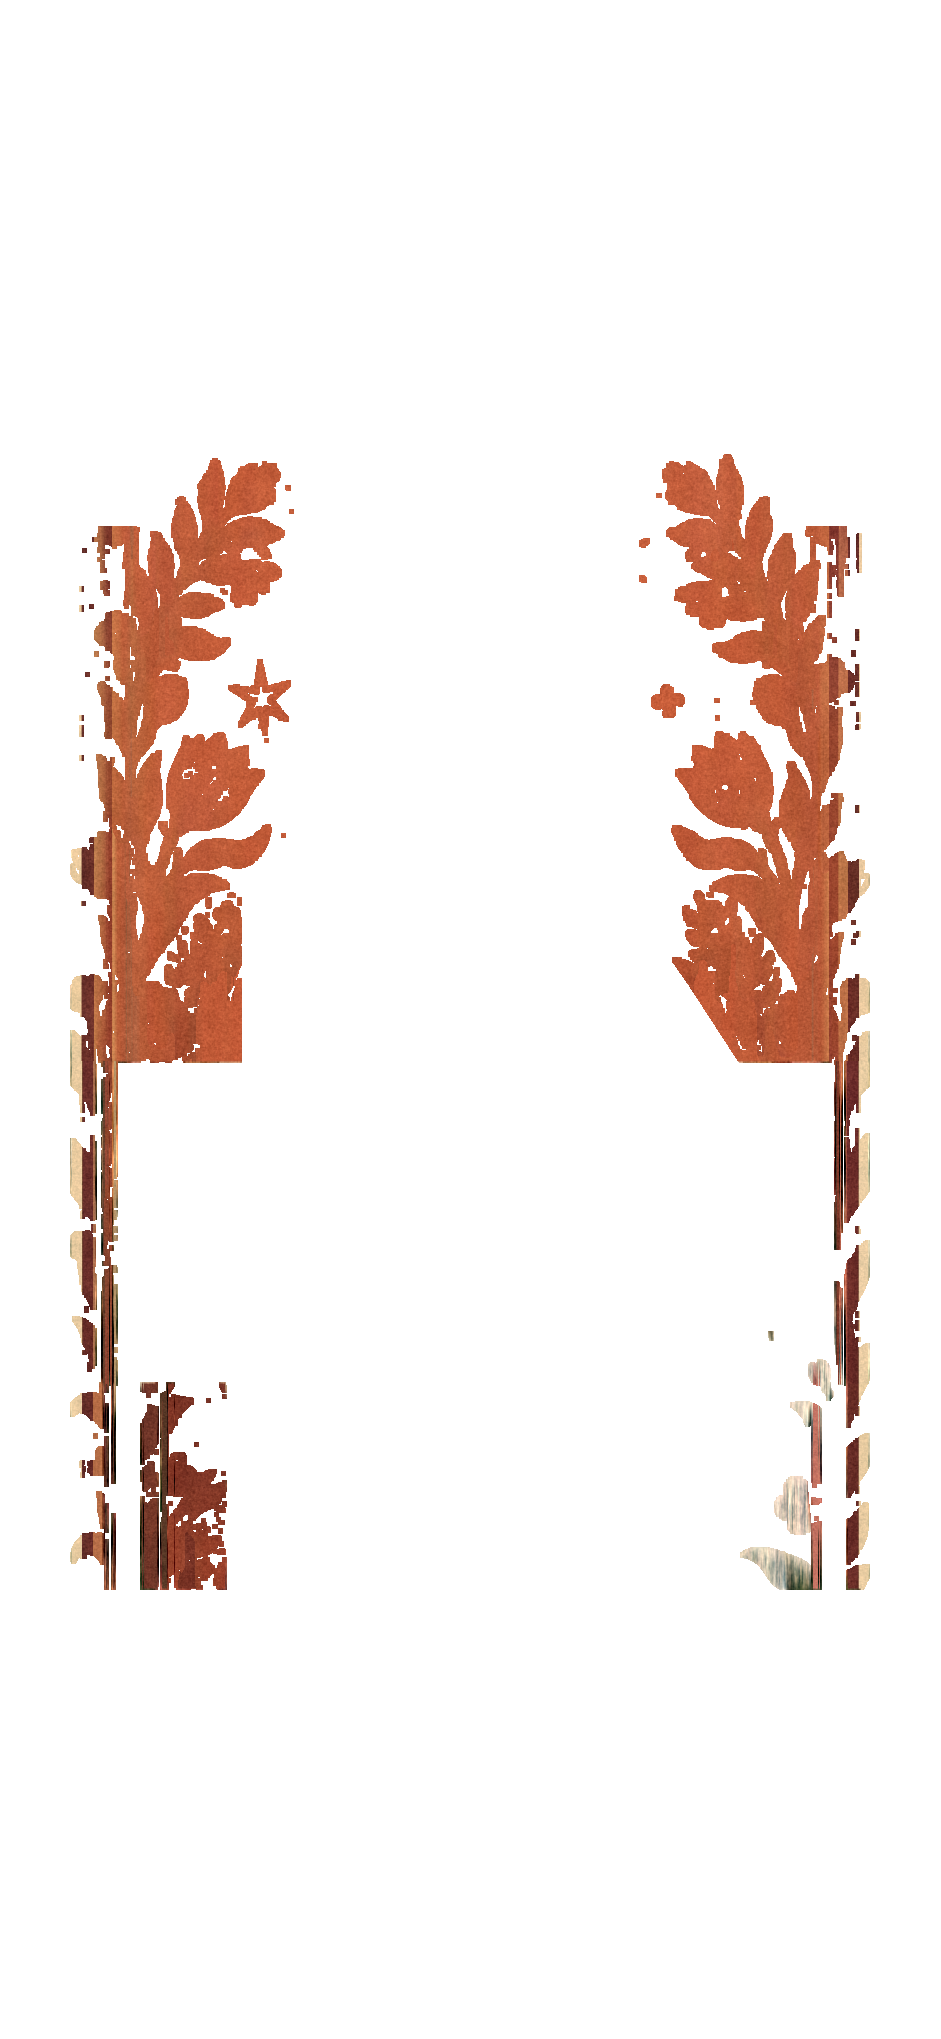
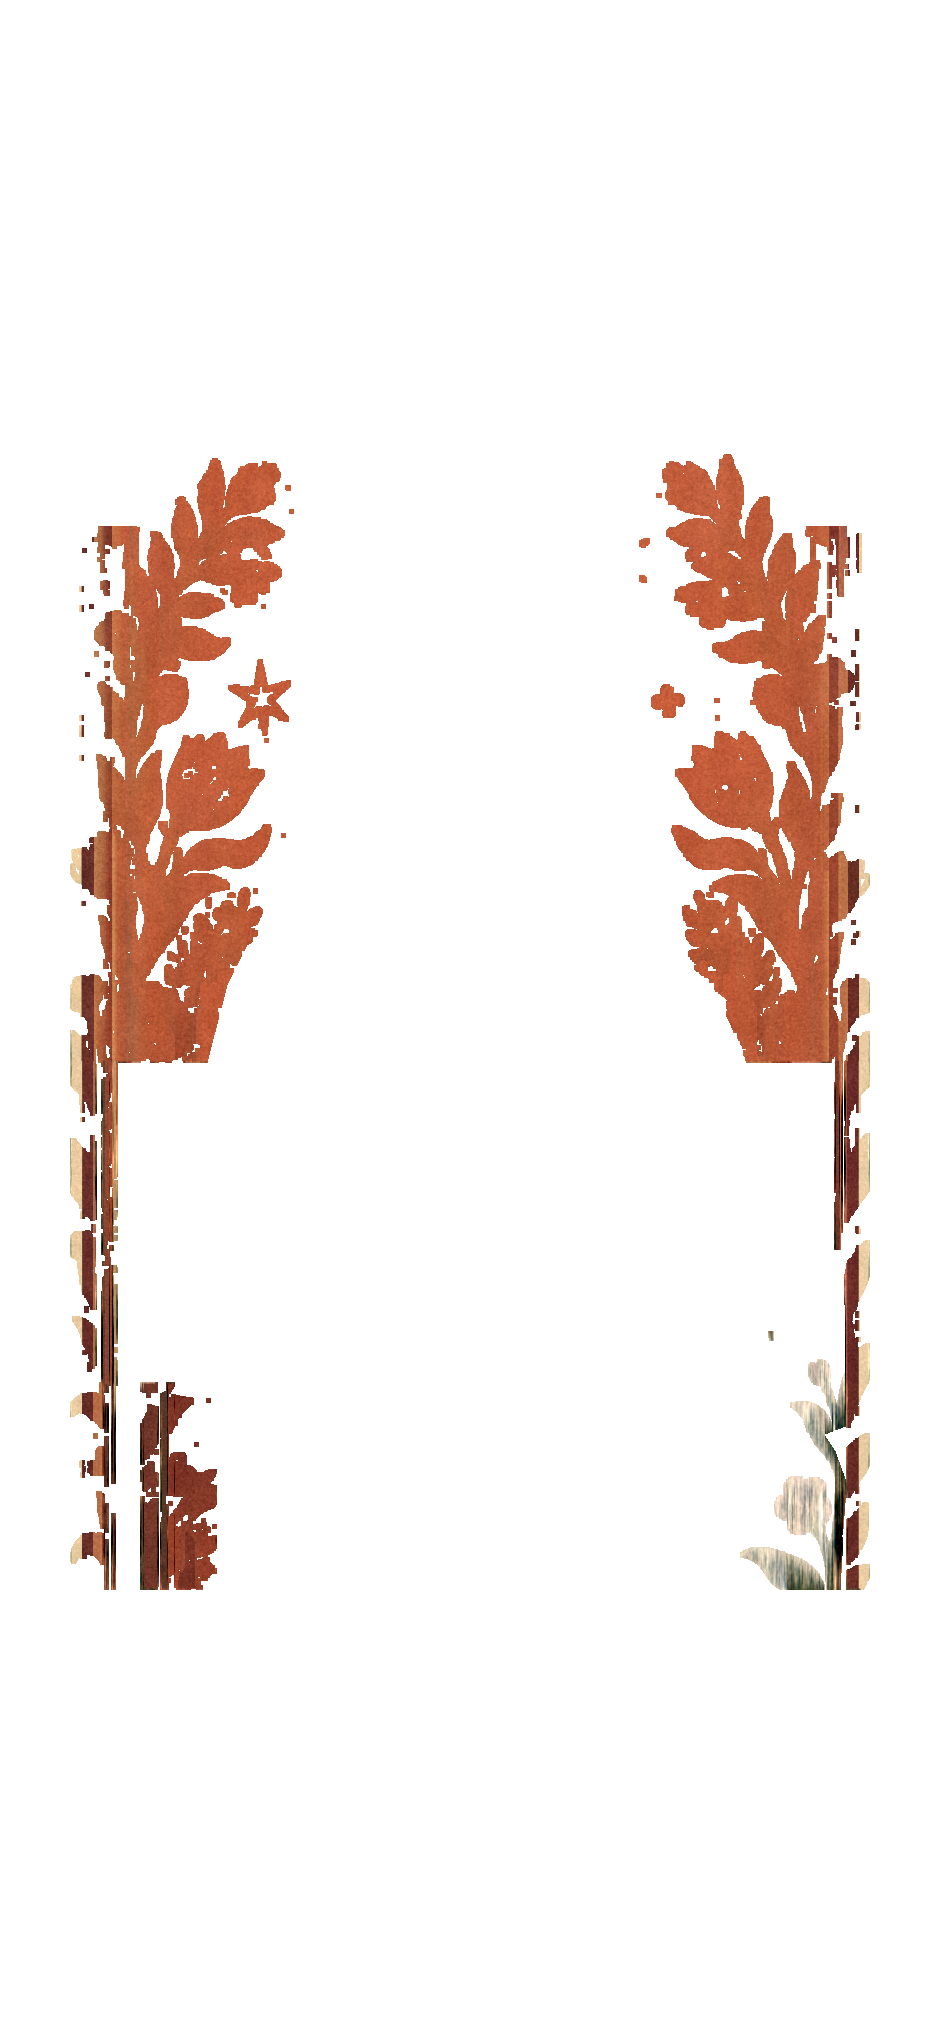
The dividers are the painting's own flowers; the vines' cover leaves the groom's shoulder alone
The sprigs above each section are now cut from the portrait — the tulip,
the white bells, daisies, blue bells and leaves — as transparent PNGs placed
in the divider symbol, the right half mirroring the left. The RSVP thank-you
shows the tulip.

The vines' cover was measured against edges that were too rough and painted
terracotta over the groom's left shoulder and a strip of the bride's dress;
both edges are now taken from the pixels.

diff --git a/public/index.html b/public/index.html
@@ -93,71 +93,21 @@
       <linearGradient id="g-door-edge" x1="0" y1="0" x2="1" y2="0"><stop offset="0" stop-color="#000" stop-opacity=".35"/><stop offset=".08" stop-color="#000" stop-opacity="0"/><stop offset=".92" stop-color="#000" stop-opacity="0"/><stop offset="1" stop-color="#000" stop-opacity=".3"/></linearGradient>
       <linearGradient id="g-bevel-d" x1="0" y1="0" x2="1" y2="1"><stop offset="0" stop-color="#000" stop-opacity=".45"/><stop offset="1" stop-color="#fff" stop-opacity=".25"/></linearGradient>
 
-      <!-- the painting's flowers: flat folk-art shapes with an ink outline, one dark and one light half -->
-      <symbol id="p-leaf" viewBox="0 -6 40 12" overflow="visible">
-        <path d="M0 0C6-7 22-8 40 0 22 8 6 7 0 0Z" fill="#3f5a30" stroke="#22301a" stroke-width=".6" stroke-linejoin="round"/>
-        <path d="M2 0C10-4 24-5 38 0 24-1 10 0 2 0Z" fill="#6f8f4c"/>
-        <path d="M1 0H38" fill="none" stroke="#22301a" stroke-width=".5" stroke-opacity=".5"/>
-      </symbol>
-      <symbol id="p-tulip" viewBox="-11 -22 22 26" overflow="visible">
-        <g stroke="#5a1f26" stroke-width=".7" stroke-linejoin="round">
-          <path d="M-10 2C-12-8-9-17-5-21-3-14-3-6-10 2Z" fill="#8a2f3a"/>
-          <path d="M10 2C12-8 9-17 5-21 3-14 3-6 10 2Z" fill="#8a2f3a"/>
-          <path d="M-8 3C-9-8-4-18 0-21 4-18 9-8 8 3 4 5-4 5-8 3Z" fill="#b8465a"/>
-          <path d="M-6 3.6C-5 6-2 7 0 7 2 7 5 6 6 3.6 3 5-3 5-6 3.6Z" fill="#4f6b36" stroke="#2c3d1f" stroke-width=".6"/>
-        </g>
-        <path d="M-1-18C-3-10-3-3-1 3M3-16C2-10 2-4 3 2" fill="none" stroke="#dd9aa4" stroke-width="1.1" stroke-linecap="round" opacity=".8"/>
-      </symbol>
-      <symbol id="p-bell" viewBox="-10 -23 20 30" overflow="visible">
-        <g stroke="#7a5a3a" stroke-width=".6" stroke-linejoin="round">
-          <path d="M-8 0C-10-8-7-16-2-19 0-12-1-5-8 0Z" fill="#efe4cc"/>
-          <path d="M8 0C10-8 7-16 2-19 0-12 1-5 8 0Z" fill="#efe4cc"/>
-          <path d="M-6 1C-7-8-3-17 0-20 3-17 7-8 6 1 3 3-3 3-6 1Z" fill="#fbf6ea"/>
-          <path d="M-6 1C-7 4-3 7 0 7 3 7 7 4 6 1 3 3-3 3-6 1Z" fill="#4f6b36" stroke="#2c3d1f"/>
-        </g>
-        <path d="M-2.4-18.4l-.8-1.4M2.4-18.4l.8-1.4M0-19.6v-1.6" fill="none" stroke="#b9525c" stroke-width="2" stroke-linecap="round"/>
-      </symbol>
-      <symbol id="p-daisy" viewBox="-8 -8 16 16" overflow="visible">
-        <g fill="#f6efdd" stroke="#7a5a3a" stroke-width=".5">
-          <ellipse cy="-4.6" rx="2.4" ry="3.4"/><ellipse cy="-4.6" rx="2.4" ry="3.4" transform="rotate(72)"/><ellipse cy="-4.6" rx="2.4" ry="3.4" transform="rotate(144)"/><ellipse cy="-4.6" rx="2.4" ry="3.4" transform="rotate(216)"/><ellipse cy="-4.6" rx="2.4" ry="3.4" transform="rotate(288)"/>
-        </g>
-        <circle r="2.1" fill="#d9a441" stroke="#8a5a1e" stroke-width=".5"/>
-      </symbol>
-      <symbol id="p-bluebell" viewBox="-8 -10 16 14" overflow="visible">
-        <g stroke="#2f4f7a" stroke-width=".6" stroke-linejoin="round">
-          <path d="M-7 3C-8-3-5-8-2-9-1-4-2 0-7 3Z" fill="#6f9bd6"/>
-          <path d="M7 3C8-3 5-8 2-9 1-4 2 0 7 3Z" fill="#6f9bd6"/>
-          <path d="M-5 3C-5-3-2-8 0-9 2-8 5-3 5 3 2 4-2 4-5 3Z" fill="#8fb3e3"/>
-        </g>
-        <circle cx="-.6" cy="-2.4" r="1" fill="#eef4fb"/>
-      </symbol>
-      <!-- the five-petal blossom from the painting's bottom corner -->
-      <symbol id="p-blossom" viewBox="-12 -12 24 24" overflow="visible">
-        <g fill="#d9868a" stroke="#7a2f33" stroke-width=".6">
-          <circle cy="-7" r="4.6"/><circle cy="-7" r="4.6" transform="rotate(72)"/><circle cy="-7" r="4.6" transform="rotate(144)"/><circle cy="-7" r="4.6" transform="rotate(216)"/><circle cy="-7" r="4.6" transform="rotate(288)"/>
-        </g>
-        <circle r="3.2" fill="#d9a441" stroke="#7a2f33" stroke-width=".6"/>
-        <circle r="1.3" fill="#7a2f33"/>
-      </symbol>
-      <!-- section divider: a sprig of the painting's flowers, a tulip in the middle -->
+      <!-- section divider: a sprig of the painting's own flowers, cut from the portrait (tools/vines/cut.py) -->
       <symbol id="f-divider" viewBox="0 0 240 34" overflow="visible">
-        <path class="stem" d="M12 22C40 6 66 34 106 20" fill="none" stroke="#3f5529" stroke-opacity=".9" stroke-width="1.5" stroke-linecap="round"/>
-        <path class="stem" d="M228 22C200 6 174 34 134 20" fill="none" stroke="#3f5529" stroke-opacity=".9" stroke-width="1.5" stroke-linecap="round"/>
-        <use href="#p-leaf" width="24" height="7.2" y="-3.6" transform="translate(28 15) rotate(-38)"/>
-        <use href="#p-leaf" width="20" height="6" y="-3" transform="translate(48 22) rotate(150)"/>
-        <use href="#p-leaf" width="24" height="7.2" y="-3.6" transform="translate(72 24) rotate(28)"/>
-        <use href="#p-leaf" width="22" height="6.6" y="-3.3" transform="translate(94 20) rotate(-36)"/>
-        <use href="#p-leaf" width="24" height="7.2" y="-3.6" transform="translate(212 15) rotate(218)"/>
-        <use href="#p-leaf" width="20" height="6" y="-3" transform="translate(192 22) rotate(30)"/>
-        <use href="#p-leaf" width="24" height="7.2" y="-3.6" transform="translate(168 24) rotate(152)"/>
-        <use href="#p-leaf" width="22" height="6.6" y="-3.3" transform="translate(146 20) rotate(216)"/>
-        <use href="#p-bluebell" width="11" height="9.6" x="-5.5" y="-6.9" transform="translate(11 21) rotate(-40)"/>
-        <use href="#p-bluebell" width="11" height="9.6" x="-5.5" y="-6.9" transform="translate(229 21) rotate(40)"/>
-        <use href="#p-daisy" width="12" height="12" x="-6" y="-6" transform="translate(44 8)"/>
-        <use href="#p-daisy" width="12" height="12" x="-6" y="-6" transform="translate(196 8)"/>
-        <use href="#p-bell" width="15" height="22.5" x="-7.5" y="-17.2" transform="translate(84 16) rotate(-16)"/>
-        <use href="#p-bell" width="15" height="22.5" x="-7.5" y="-17.2" transform="translate(156 16) rotate(16)"/>
-        <use href="#p-tulip" width="24" height="28.4" x="-12" y="-24" transform="translate(120 26)"/>
+        <path class="stem" d="M12 22C40 6 66 34 108 22" fill="none" stroke="#3b5427" stroke-width="1.6" stroke-linecap="round"/>
+        <path class="stem" d="M228 22C200 6 174 34 132 22" fill="none" stroke="#3b5427" stroke-width="1.6" stroke-linecap="round"/>
+        <g id="f-sprig-half">
+          <image href="/assets/flowers/leaf-a.png" width="23" height="14" x="-11.5" y="-7" transform="translate(30 13) rotate(-34)"/>
+          <image href="/assets/flowers/leaf-b.png" width="21" height="9.8" x="-10.5" y="-4.9" transform="translate(50 24) rotate(150)"/>
+          <image href="/assets/flowers/leaf-a.png" width="23" height="14" x="-11.5" y="-7" transform="translate(72 26) rotate(26)"/>
+          <image href="/assets/flowers/leaf-b.png" width="21" height="9.8" x="-10.5" y="-4.9" transform="translate(96 18) rotate(-36)"/>
+          <image href="/assets/flowers/blue.png" width="10" height="10.8" x="-5" y="-6" transform="translate(11 21) rotate(-40)"/>
+          <image href="/assets/flowers/daisy.png" width="12" height="12" x="-6" y="-6" transform="translate(45 8)"/>
+          <image href="/assets/flowers/bell.png" width="15" height="23" x="-7.5" y="-15" transform="translate(84 13) rotate(-14)"/>
+        </g>
+        <use href="#f-sprig-half" transform="translate(240 0) scale(-1 1)"/>
+        <image href="/assets/flowers/tulip.png" width="26" height="32" x="-13" y="-27" transform="translate(120 30)"/>
       </symbol>
 
       <!-- detail icons -->
@@ -291,7 +241,7 @@
       </form>
 
       <div class="rsvp-done" id="rsvp-done" hidden>
-        <svg class="done-rose" viewBox="-14 -14 28 28" aria-hidden="true"><use href="#p-blossom" width="24" height="24" x="-12" y="-12"/></svg>
+        <svg class="done-rose" viewBox="0 0 80 99" aria-hidden="true"><image href="/assets/flowers/tulip.png" width="80" height="99"/></svg>
         <p class="rsvp-thanks" data-t="ui.rsvpThanks">Thank you — your seat is saved.</p>
       </div>
     </div>

diff --git a/public/js/main.js b/public/js/main.js
@@ -296,7 +296,7 @@
     /* — dividers draw themselves — */
     $$('svg.divider').forEach(svg => {
       const stems = Array.from(svg.querySelectorAll('.stem'));
-      const bits = Array.from(svg.querySelectorAll('use'));
+      const bits = Array.from(svg.querySelectorAll('image'));
       const tl = gsap.timeline({ scrollTrigger: { trigger: svg, start: 'top 90%', once: true } });
       if (stems.length) {
         stems.forEach(p => { const len = p.getTotalLength(); p.style.strokeDasharray = len; p.style.strokeDashoffset = len; });

diff --git a/public/css/styles.css b/public/css/styles.css
@@ -675,7 +675,7 @@ section h2 {
 [dir="rtl"] .form-note { font-style: normal; }
 .form-note.error { color: #a33d43; }
 .rsvp-done { text-align: center; }
-.done-rose { width: 60px; height: 60px; }
+.done-rose { width: 56px; height: 69px; }
 .rsvp-thanks { margin: .2em 0 0; font-size: clamp(19px, 2.4vw, 22px); color: var(--maroon); }
 
 /* --- closing --- */

diff --git a/tools/vines/cut.py b/tools/vines/cut.py
@@ -1,0 +1,85 @@
+"""
+Cut single flowers and leaves out of the sofa portrait, with transparent
+backgrounds, for the section dividers and the RSVP thank-you.
+
+Each piece is a box in the painting and a shape inside it to keep. Inside the
+box, the background (terracotta, cream, frame, dress) is flood-filled from the
+box's edge, so a petal whose colour drifts towards the background still stays
+solid as long as its outline holds; then the piece is clipped to its shape,
+eroded a pixel to drop the fringe, and softened.
+
+    python3 tools/vines/cut.py
+"""
+from PIL import Image, ImageDraw, ImageFilter
+import os, math
+
+HERE = os.path.dirname(os.path.abspath(__file__))
+ASSETS = os.path.normpath(os.path.join(HERE, '..', '..', 'public', 'assets'))
+OUT = os.path.join(ASSETS, 'flowers')
+os.makedirs(OUT, exist_ok=True)
+
+TERRA, CREAM, FRAME, WHITE, FLOOR = (192, 92, 58), (236, 205, 160), (104, 48, 44), (242, 238, 230), (128, 60, 42)
+
+def E(cx, cy, rx, ry):   # an ellipse to keep
+    return ('ellipse', (cx - rx, cy - ry, cx + rx, cy + ry))
+def P(*pts):             # a polygon to keep
+    return ('polygon', list(pts))
+
+PIECES = {
+    'tulip':   dict(box=(150, 540, 265, 665), keep=E(207, 600, 46, 56), bg=[TERRA]),
+    'bell':    dict(box=(70, 640, 135, 722), keep=E(104, 680, 28, 34), bg=[TERRA, FRAME, (CREAM, 28)]),   # its own white is close to the cream border: a tight match only
+    'daisy':   dict(box=(94, 428, 138, 472), keep=E(116, 450, 20, 20), bg=[TERRA, CREAM, FRAME]),
+    'pink':    dict(box=(222, 268, 290, 336), keep=E(255, 300, 31, 32), bg=[TERRA]),
+    'blue':    dict(box=(68, 788, 108, 834), keep=E(87, 810, 18, 21), bg=[TERRA, CREAM, FRAME]),
+    'leaf-a':  dict(box=(164, 400, 236, 452), keep=P((166, 412), (200, 403), (232, 413), (233, 425), (205, 447), (170, 443)), bg=[TERRA]),
+    'leaf-b':  dict(box=(170, 448, 242, 488), keep=P((172, 457), (205, 450), (240, 466), (238, 478), (205, 484), (175, 479)), bg=[TERRA]),
+}
+
+def unit(p):
+    n = math.sqrt(sum(c * c for c in p)) or 1
+    return tuple(c / n for c in p)
+def angle(a, b):
+    return math.acos(max(-1, min(1, sum(x * y for x, y in zip(unit(a), unit(b))))))
+def dist(a, b): return math.sqrt(sum((a[i] - b[i]) ** 2 for i in range(3)))
+def is_bg(p, protos):
+    for q in protos:
+        q, lim = (q[0], q[1]) if len(q) == 2 else (q, 62)
+        if angle(p, q) < math.radians(6) and dist(p, q) < lim: return True
+    return False
+
+im = Image.open(os.path.join(ASSETS, 'portrait-sofa.jpg')).convert('RGB')
+for name, spec in PIECES.items():
+    x0, y0, x1, y1 = spec['box']
+    crop = im.crop(spec['box'])
+    w, h = crop.size
+    px = crop.load()
+    bg = [[is_bg(px[x, y], spec['bg']) for x in range(w)] for y in range(h)]
+    # flood the background in from the edge of the box
+    seen = [[False] * w for _ in range(h)]
+    stack = [(x, y) for x in range(w) for y in (0, h - 1)] + [(x, y) for y in range(h) for x in (0, w - 1)]
+    while stack:
+        x, y = stack.pop()
+        if x < 0 or y < 0 or x >= w or y >= h or seen[y][x] or not bg[y][x]: continue
+        seen[y][x] = True
+        stack += [(x + 1, y), (x - 1, y), (x, y + 1), (x, y - 1)]
+    mask = Image.new('L', (w, h), 0)
+    mp = mask.load()
+    for y in range(h):
+        for x in range(w):
+            if not seen[y][x]: mp[x, y] = 255
+    # keep only the piece itself
+    keep = Image.new('L', (w, h), 0)
+    d = ImageDraw.Draw(keep)
+    kind, geo = spec['keep']
+    if kind == 'ellipse':
+        d.ellipse([geo[0] - x0, geo[1] - y0, geo[2] - x0, geo[3] - y0], fill=255)
+    else:
+        d.polygon([(x - x0, y - y0) for x, y in geo], fill=255)
+    mask = Image.composite(mask, Image.new('L', (w, h), 0), keep)
+    mask = mask.filter(ImageFilter.MinFilter(3)).filter(ImageFilter.GaussianBlur(.6))
+    out = crop.convert('RGBA')
+    out.putalpha(mask)
+    bbox = mask.getbbox()
+    out = out.crop(bbox)
+    out.save(os.path.join(OUT, name + '.png'), optimize=True)
+    print(f'{name:8s} {out.size[0]}x{out.size[1]}  {os.path.getsize(os.path.join(OUT, name + ".png")) // 1024} KB')

diff --git a/tools/vines/bare.py b/tools/vines/bare.py
@@ -32,9 +32,9 @@ def lerp_edge(points, y):
     return points[0][1] if y < points[0][0] else points[-1][1]
 
 # the groom's suit and trousers: the left band stops short of them; over the sofa rows only cream and frame
-LEFT_INNER = [(Y0, 300), (690, 300), (700, 240), (878, 240), (879, 116), (1200, 116), (1201, 225), (Y1, 225)]
-# the bride's veil and dress edge, as (y, x)
-DRESS = [(560, 640), (700, 620), (800, 690), (900, 755), (1000, 795), (1100, 830), (1200, 840), (1250, 800), (1300, 805), (Y1, 815)]
+LEFT_INNER = [(Y0, 300), (725, 300), (760, 245), (800, 225), (850, 212), (878, 205), (879, 116), (1200, 116), (1201, 215), (Y1, 215)]
+# the bride's veil and dress edge, as (y, x), measured from the pixels with 8px to spare
+DRESS = [(560, 640), (670, 577), (700, 603), (740, 628), (760, 650), (780, 691), (800, 714), (840, 732), (880, 749), (920, 766), (960, 787), (1000, 798), (1040, 813), (1080, 829), (1120, 846), (1240, 846), (1250, 820), (1270, 833), (1300, 844), (Y1, 838)]
 
 WHITE = (242, 238, 230)
 def dist(a, b): return math.sqrt(sum((a[i]-b[i])**2 for i in range(3)))

diff --git a/README.md b/README.md
@@ -27,7 +27,9 @@ public/                     everything Vercel serves
   assets/portrait-sofa.jpg  the sofa portrait (behind the door)
   assets/portrait-sofa-phone.jpg  the same, olive border extended to 9:19.5 for phones
   assets/vines-bare.png     the portrait's side vines painted out (transparent elsewhere); -phone.png likewise
+  assets/flowers/           single flowers and leaves cut from the portrait, for the dividers
 tools/vines/bare.py         makes the two vines-bare images from the portrait (Pillow only; ~5 min)
+tools/vines/cut.py          cuts the flowers in assets/flowers out of the portrait
   assets/og-image.jpg       social-share preview
 tools/rsvp/Code.gs          Apps Script that receives RSVPs into a Google Sheet
 vercel.json                 static deploy of public/, cache headers
@@ -76,6 +78,16 @@ The gate is met closed every time: on `pageshow` and `load`, unless the guest
 has already touched the page, the scroll is put back to the top and the
 timeline to zero, because browsers restore the old position on reload and
 when the page comes back from memory.
+
+### The dividers
+
+The sprig above each section is made of the painting's own flowers: the
+tulip in the middle, a white bell either side, the small daisies, blue bells
+at the ends and the leaves are all cut from the portrait by
+`tools/vines/cut.py` into `public/assets/flowers/` (transparent PNGs), and
+placed as `<image>`s in the `f-divider` symbol; the right half mirrors the
+left. The stems are drawn, and the flowers pop in, when the divider scrolls
+into view. The RSVP thank-you shows the tulip.
 
 The names are real text (`data-t`), so the language switch redraws them in
 the other script; Latin uses Great Vibes, Arabic uses Aref Ruqaa. On wide
